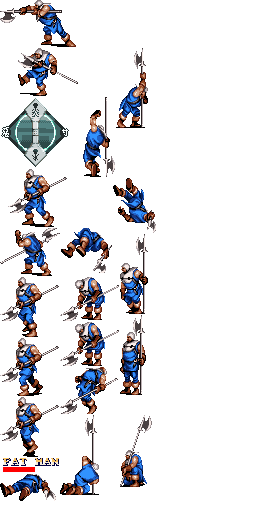
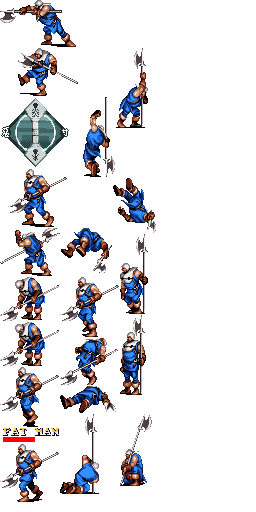
fix attack enemy

Changed region(s): [[0.0, 0.5312, 0.4688, 1.0], [0.4688, 0.8125, 0.5938, 0.9688], [0.4375, 0.625, 0.4688, 0.6562]]

diff --git a/Classes/GameScene_1.cpp b/Classes/GameScene_1.cpp
@@ -40,7 +40,7 @@ GameScene_1::~GameScene_1()
 Scene* GameScene_1::createScene()
 {
 	auto scene = Scene::createWithPhysics();
-	//scene->getPhysicsWorld()->setDebugDrawMask(PhysicsWorld::DEBUGDRAW_ALL);
+	scene->getPhysicsWorld()->setDebugDrawMask(PhysicsWorld::DEBUGDRAW_ALL);
 	//scene->getPhysicsWorld()->setGravity(Vect(0, 0));
 
 	auto layer = GameScene_1::create();
@@ -206,11 +206,12 @@ bool GameScene_1::init()
 
 
 	//FanMan
-	/*_FanMan = FanMan::create();
+	_FanMan = FanMan::create();
 	_FanMan->setPosition(Vec2(visibleSize.width*POSITION_BEGIN_WIDTH+200, visibleSize.height*POSITION_BEGIN_HEIGHT));
 	_FanMan->enalbeAI(_Arthur);
+	_FanMan->setscene(this);
 	this->addChild(_FanMan,1);
-*/
+
 	_Boss = Garibaldi::create();
 	_Boss->setPosition(Vec2(7400, 100));
 	//sw->enalbeAI(_Arthur);
@@ -533,78 +534,78 @@ void GameScene_1::lockcamera()
 	if (campos.x > 2000 && check1 == false)
 	{
 
-		campos.x = 2000;
-		lock1 = true;
-		check1 = true;
-		auto ObjectEnemy = _tileMap->getObjectGroup("Enemy");
-		auto Wall = ObjectEnemy->getObjects();
-		for (int i = 0; i < Wall.size(); i++)
-		{
-			auto objInfo = Wall.at(i).asValueMap();
-			int type = objInfo.at("type").asInt();
-			if (type == 1)
-			{
-				int x = objInfo.at("x").asInt();
-				int y = objInfo.at("y").asInt();
-				int width = objInfo.at("width").asInt();
-				int height = objInfo.at("height").asInt();
+		//campos.x = 2000;
+		//lock1 = true;
+		//check1 = true;
+		//auto ObjectEnemy = _tileMap->getObjectGroup("Enemy");
+		//auto Wall = ObjectEnemy->getObjects();
+		//for (int i = 0; i < Wall.size(); i++)
+		//{
+		//	auto objInfo = Wall.at(i).asValueMap();
+		//	int type = objInfo.at("type").asInt();
+		//	if (type == 1)
+		//	{
+		//		int x = objInfo.at("x").asInt();
+		//		int y = objInfo.at("y").asInt();
+		//		int width = objInfo.at("width").asInt();
+		//		int height = objInfo.at("height").asInt();
 
-			
+		//	
 
-				auto secret = FanMan::create();
-				secret->setscene(this);
-				secret->enalbeAI(_Arthur);
-				//FanMan->setPlayer(_Arthur, _Arthur);
-				this->addChild(secret, 1);
-				secret->setAnchorPoint(Vec2::ANCHOR_MIDDLE);
-				secret->setPosition(SCALE_MAP*(x + width * 0.5f), SCALE_MAP*(y + height * 0.5f));
-				//secret->setScale(SCALE_MAP);
-			}
-			else if (type == 2)
-			{
-				int x = objInfo.at("x").asInt();
-				int y = objInfo.at("y").asInt();
-				int width = objInfo.at("width").asInt();
-				int height = objInfo.at("height").asInt();
-
-
-
-				auto secret = SwordMan::create();
-				secret->setscene(this);
-				secret->enalbeAI(_Arthur);
-				//FanMan->setPlayer(_Arthur, _Arthur);
-				this->addChild(secret, 1);
-				secret->setAnchorPoint(Vec2::ANCHOR_MIDDLE);
-				secret->setPosition(SCALE_MAP*(x + width * 0.5f), SCALE_MAP*(y + height * 0.5f));
-				//secret->setScale(SCALE_MAP);
-			}
-			else if (type == 3)
-			{
-				int x = objInfo.at("x").asInt();
-				int y = objInfo.at("y").asInt();
-				int width = objInfo.at("width").asInt();
-				int height = objInfo.at("height").asInt();
+		//		auto secret = FanMan::create();
+		//		secret->setscene(this);
+		//		secret->enalbeAI(_Arthur);
+		//		//FanMan->setPlayer(_Arthur, _Arthur);
+		//		this->addChild(secret, 1);
+		//		secret->setAnchorPoint(Vec2::ANCHOR_MIDDLE);
+		//		secret->setPosition(SCALE_MAP*(x + width * 0.5f), SCALE_MAP*(y + height * 0.5f));
+		//		//secret->setScale(SCALE_MAP);
+		//	}
+		//	else if (type == 2)
+		//	{
+		//		int x = objInfo.at("x").asInt();
+		//		int y = objInfo.at("y").asInt();
+		//		int width = objInfo.at("width").asInt();
+		//		int height = objInfo.at("height").asInt();
 
 
 
-				auto secret = BirdMan::create();
-				secret->setscene(this);
-				secret->enalbeAI(_Arthur);
-				//FanMan->setPlayer(_Arthur, _Arthur);
-				this->addChild(secret, 1);
-				secret->setAnchorPoint(Vec2::ANCHOR_MIDDLE);
-				secret->setPosition(SCALE_MAP*(x + width * 0.5f), SCALE_MAP*(y + height * 0.5f));
-			}
+		//		auto secret = SwordMan::create();
+		//		secret->setscene(this);
+		//		secret->enalbeAI(_Arthur);
+		//		//FanMan->setPlayer(_Arthur, _Arthur);
+		//		this->addChild(secret, 1);
+		//		secret->setAnchorPoint(Vec2::ANCHOR_MIDDLE);
+		//		secret->setPosition(SCALE_MAP*(x + width * 0.5f), SCALE_MAP*(y + height * 0.5f));
+		//		//secret->setScale(SCALE_MAP);
+		//	}
+		//	else if (type == 3)
+		//	{
+		//		int x = objInfo.at("x").asInt();
+		//		int y = objInfo.at("y").asInt();
+		//		int width = objInfo.at("width").asInt();
+		//		int height = objInfo.at("height").asInt();
 
 
-		}
+
+		//		auto secret = BirdMan::create();
+		//		secret->setscene(this);
+		//		secret->enalbeAI(_Arthur);
+		//		//FanMan->setPlayer(_Arthur, _Arthur);
+		//		this->addChild(secret, 1);
+		//		secret->setAnchorPoint(Vec2::ANCHOR_MIDDLE);
+		//		secret->setPosition(SCALE_MAP*(x + width * 0.5f), SCALE_MAP*(y + height * 0.5f));
+		//	}
+
+
+		//}
 	}
 	else if (campos.x > 7000 && check2 == false)
 	{
-		_Boss->enalbeAI(_Arthur);
+		/*_Boss->enalbeAI(_Arthur);
 		campos.x = 7000;
 		lock2 = true;
-		check2 = true;
+		check2 = true;*/
 	}
 	
 }
@@ -616,7 +617,9 @@ void GameScene_1::setlockey()
 
 void GameScene_1::dieenemy()
 {
-	checkenemy++;
+	/*this->checkenemy =0;
+	this->checkenemy;*/
+	this->checkenemy++;
 }
 
 bool GameScene_1::CheckJump(cocos2d::Node * v1, cocos2d::Node * v2)

diff --git a/Classes/FanMan.cpp b/Classes/FanMan.cpp
@@ -13,7 +13,8 @@ USING_NS_CC;
 std::map<AnimationType, AnimationInfo> FanMan::s_mapAnimations =
 {
 	{AnimationType::WALKING, AnimationInfo(4, "FatMan_walk_%d.png", 1.0f / 12.0f, CC_REPEAT_FOREVER)},
-	{ AnimationType::ATTACKING, AnimationInfo(2, "FatMan_attack1_%d.png", 1.0f / 4.0f, 1) },
+	{ AnimationType::ATTACKING, AnimationInfo(1, "FatMan_attack1_%d.png", 10.0f,CC_REPEAT_FOREVER ) },
+	{ AnimationType::PREATTACKING, AnimationInfo(1, "FatMan_preattack1_%d.png", 1.0f / 4.0f, 4) },
 	{AnimationType::HITTED,AnimationInfo(1,"FatMan_stand_%d.png", 1.0f / 4.0f,2)},
 	{AnimationType::DEATH,AnimationInfo(4,"FatMan_fall_%d.png",1.0f/4.0f,1)},
 	{AnimationType::FALLING,AnimationInfo(4,"FatMan_fall_%d.png",1.0f / 4.0f,1)},
@@ -136,14 +137,9 @@ void FanMan::PlayAnimation(AnimationType type)
 	}
 	animation->setDelayPerUnit(info.fps);
 	
-	if (type == AnimationType::ATTACKING)
-	{
-		attackdelay = 0.5f;
-	}
-	else
-		attackdelay = 0;
+	
 	Animate* animate = Animate::create(animation);
-	auto seq = Sequence::create(Repeat::create(animate, info.loopTime), DelayTime::create(attackdelay), CallFunc::create([=]()
+	auto seq = Sequence::create(Repeat::create(animate, info.loopTime), CallFunc::create([=]()
 	{
 		//if (type == AnimationType::ATTACKING)
 		//_PlayerSprite->setSpriteFrame("Arthur_0_stand_1.png");
@@ -169,24 +165,31 @@ void FanMan::SetState(_State state)
 
 		switch (state)
 		{
+		case STATE_PREATTACKING:
+			this->setDeathLess(false);
+			this->PlayAnimation(AnimationType::PREATTACKING);
+			break;
 		case STATE_ATTACKING:
-			this->runAction(Sequence::create(DelayTime::create(0.4f), CallFunc::create([=]()
+			/*this->runAction(Sequence::create(DelayTime::create(0.4f), CallFunc::create([=]()
+			{*/
+			
+		{
+			auto hit = Hit::create();
+			this->addChild(hit);
+			hit->setScaleX(2.0f);
+			hit->setTag(TAG_ATTACK_ENEMY);
+			hit->setDamage(_damage);
+			hit->setcollisin(HIT_ENEMY_COLL);
+			hit->setcatory(HIT_ENEMY_CATE);
+			hit->setPosition(Vec2(-2 * this->getContentSize().width, this->getContentSize().height * 0.5f - 10));
+			hit->runAction(Sequence::create(DelayTime::create(0.2f), CallFunc::create([=]()
 			{
-				auto hit = Hit::create();
-				this->addChild(hit);
-				hit->setScaleX(2.0f);
-				hit->setTag(TAG_ATTACK_ENEMY);
-				hit->setDamage(_damage);
-				hit->setcollisin(HIT_ENEMY_COLL);
-				hit->setcatory(HIT_ENEMY_CATE);
-				hit->setPosition(Vec2(-2 * this->getContentSize().width, this->getContentSize().height * 0.5f - 10));
-				hit->runAction(Sequence::create(DelayTime::create(0.2f), CallFunc::create([=]()
-				{
-					hit->removeFromParent();
-				}), nullptr));
-			}), NULL));
+				hit->removeFromParent();
+			}), nullptr));
+		}
+			/*}), NULL));*/
 
-			this->stopActionByTag(TAG_ACTION_AI_CHASE_PLAYER);
+			//this->stopActionByTag(TAG_ACTION_AI_CHASE_PLAYER);
 			//this->SetState(STATE_STANDING);
 			/*this->runAction(Sequence::create(DelayTime::create(0.5f), CallFunc::create([=]()
 			{
@@ -313,6 +316,10 @@ void FanMan::onFinishAnimation()
 		
 		this->SetState(STATE_STANDING);
 	}
+	else if (_state[1] == STATE_PREATTACKING)
+	{
+		this->SetState(STATE_ATTACKING);
+	}
 }
 
 void FanMan::scheduleUpdateAI(float delta)
@@ -339,11 +346,11 @@ void FanMan::scheduleUpdateAI(float delta)
 		
 			auto distanceX = std::abs(this->getPosition().x - _Arthurptr->getPosition().x);
 			auto distanceY = std::abs(this->getPosition().y - _Arthurptr->getPosition().y);
-			if (distanceX < _EnemySprite->getContentSize().width * 0.5f + 100.0f && distanceY< 30)
+			if (distanceX < _EnemySprite->getContentSize().width * 0.5f + 100.0f && distanceY<50)
 			{
 				//this->PlayAnimation(AnimationType::ATTACKING);
-				
-				this->SetState(STATE_ATTACKING);
+				this->stopActionByTag(TAG_ACTION_AI_CHASE_PLAYER);
+				this->SetState(STATE_PREATTACKING);
 			}
 			else
 			{

diff --git a/Classes/AppDelegate.cpp b/Classes/AppDelegate.cpp
@@ -121,7 +121,7 @@ bool AppDelegate::applicationDidFinishLaunching() {
     register_all_packages();
 
     // create a scene. it's an autorelease object
-    auto scene = SplashScene::createScene();
+    auto scene = GameScene_1::createScene();
 	//auto scene = SplashScene::createScene();
     // run
     director->runWithScene(scene);

diff --git a/Classes/GameObject.h b/Classes/GameObject.h
@@ -12,7 +12,8 @@ enum _State
 	STATE_FALLING,
 	STATE_GETUP,
 	STATE_LEVELUP,
-	STATE_WIN
+	STATE_WIN,
+	STATE_PREATTACKING
 };
 struct AnimationInfo
 {
@@ -41,6 +42,7 @@ enum class AnimationType
 	GETUP,
 	LEVELUP,
 	STANDING,
+	PREATTACKING,
 };
 class GameObject: public cocos2d::Node
 {

diff --git a/Classes/Arthur_1.cpp b/Classes/Arthur_1.cpp
@@ -620,7 +620,7 @@ void Arthur_1::onFinishAnimation()
 	{
 		SetState(STATE_WALKING);
 	}
-	else if (_state[1] == STATE_JUMPING && _state[1] == STATE_WALKING)
+	else if (_state[1] == STATE_JUMPING )
 	{
 		SetState(STATE_STANDING);
 	}
